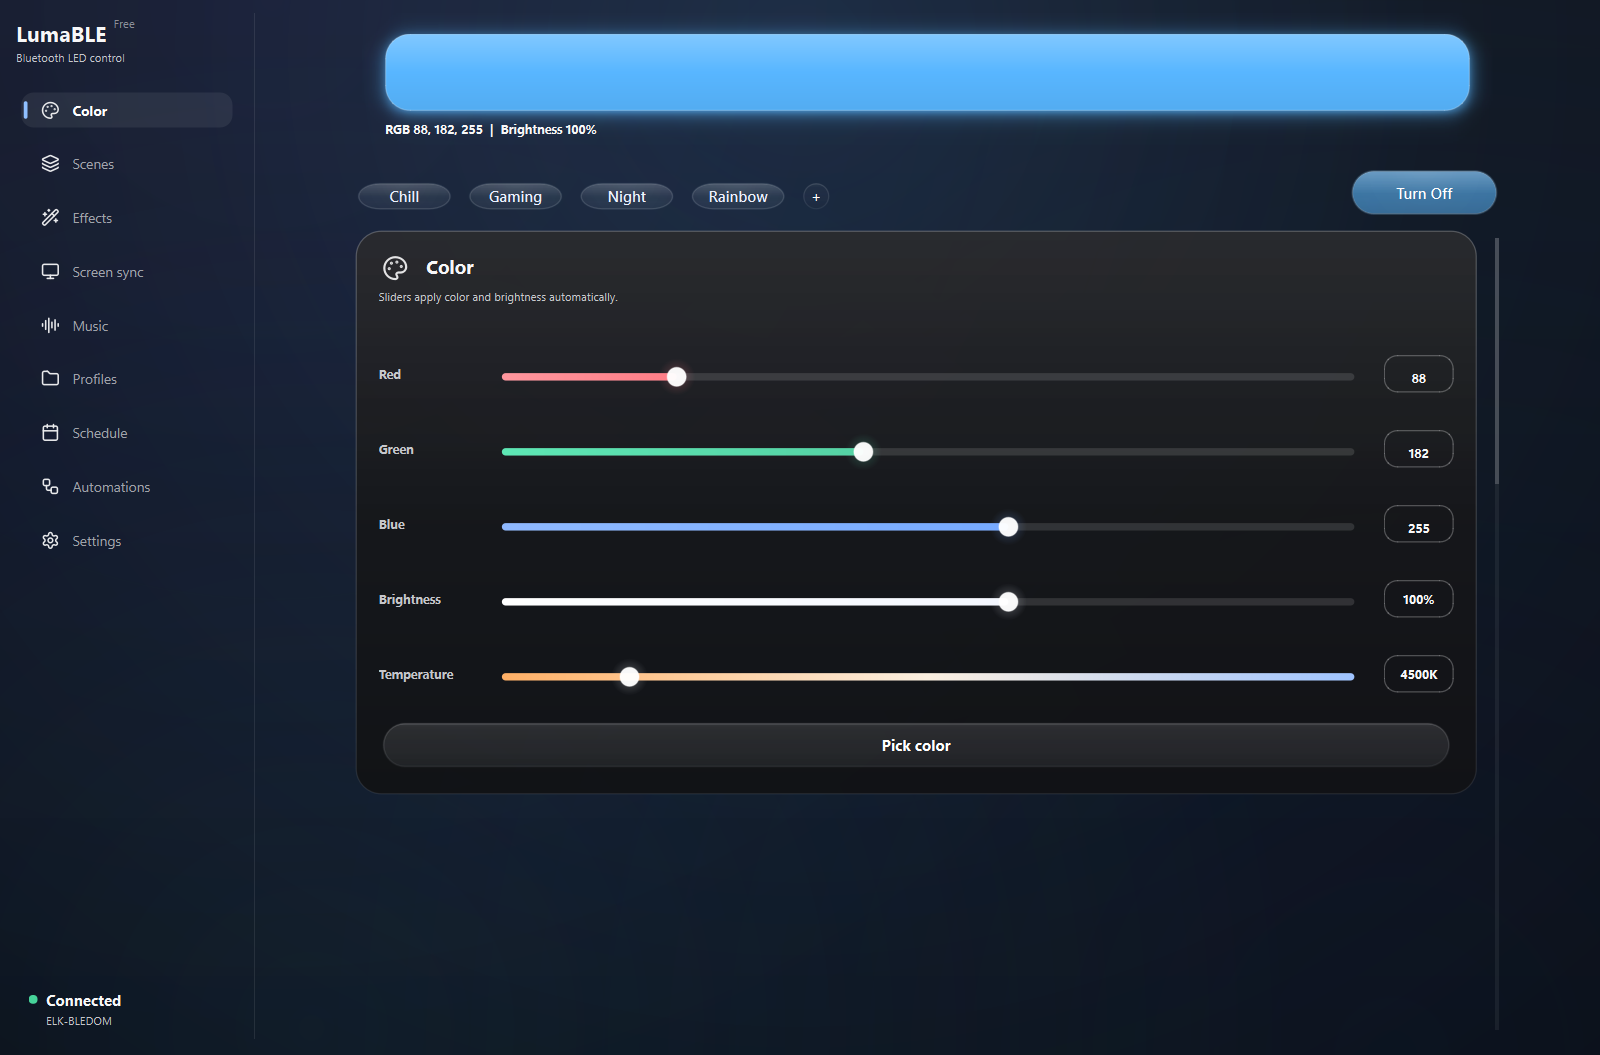
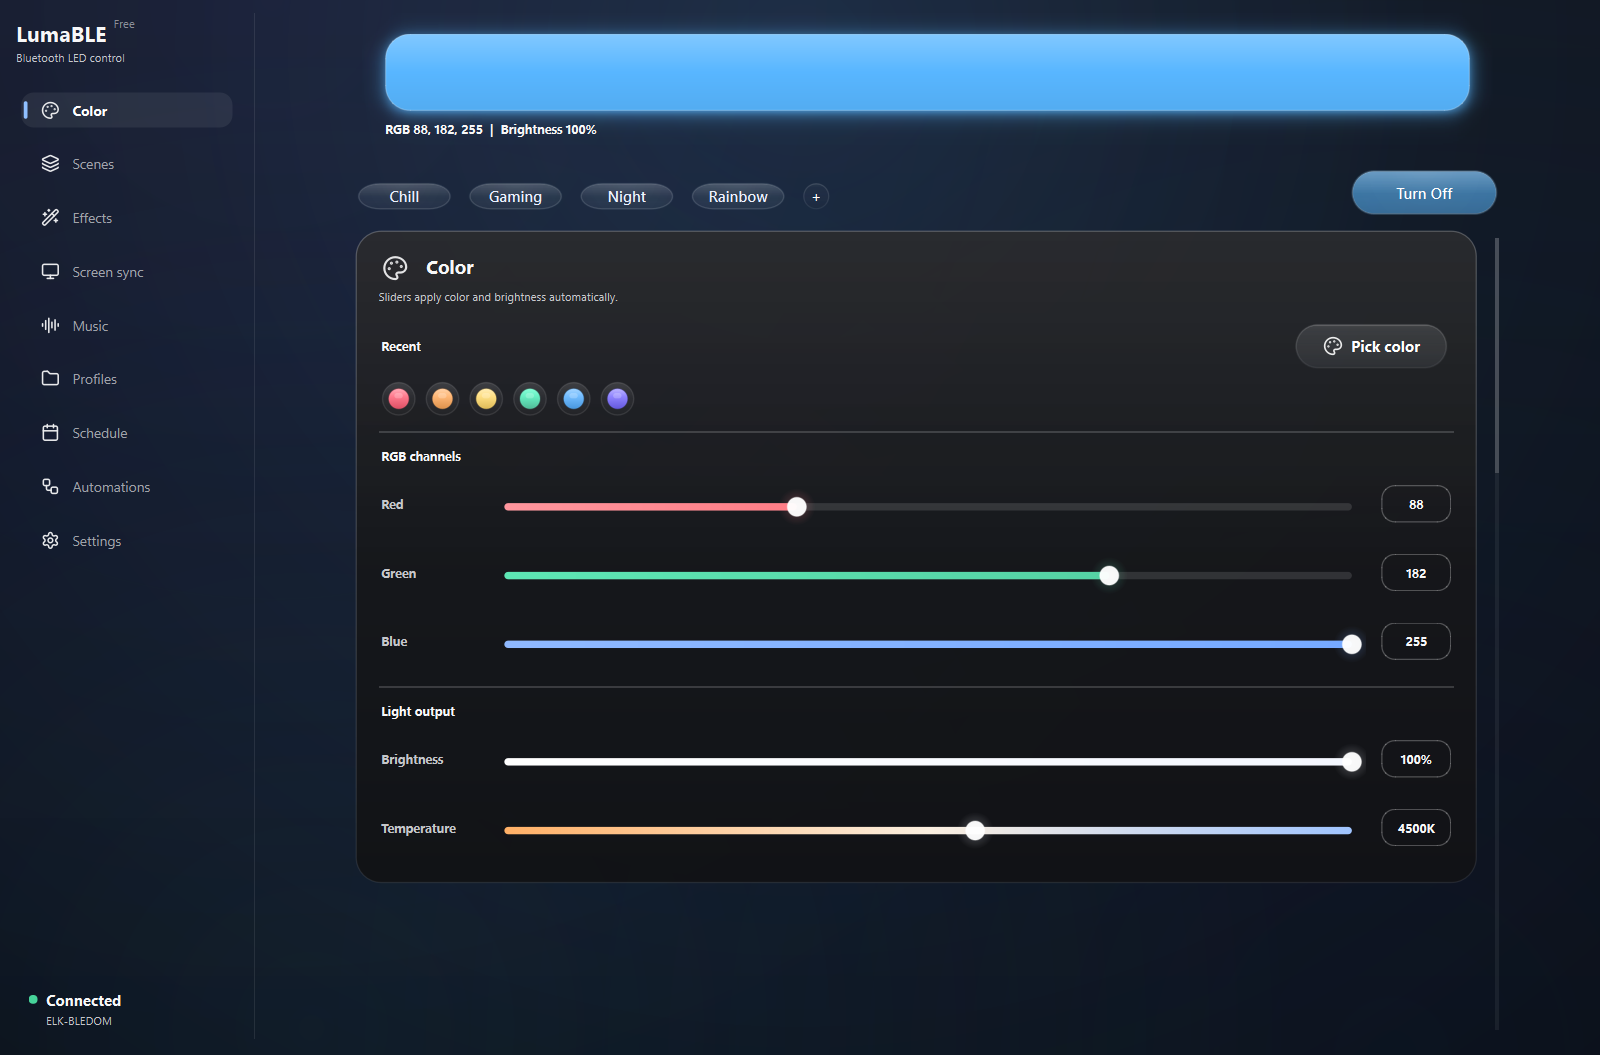
Update public screenshots for 0.3.8

diff --git a/tools/shoot_screen.py b/tools/shoot_screen.py
@@ -333,6 +333,7 @@ def main(argv: list[str] | None = None) -> int:
     width, _, height = args.size.partition("x")
     _isolated_data_dir(args.theme, args.language)
 
+    from PySide6.QtTest import QTest
     from PySide6.QtWidgets import QApplication
 
     from app.main_layout import select_section
@@ -352,6 +353,10 @@ def main(argv: list[str] | None = None) -> int:
             demo(window)
         for _ in range(8):
             app.processEvents()
+        # Public snapshots should show the settled interface, not a frame from a
+        # value or geometry transition that happened while the demo was applied.
+        QTest.qWait(300)
+        app.processEvents()
 
         # Named after the demo when there is one, so an overlay's snapshot does not
         # overwrite the screen's underneath it.
